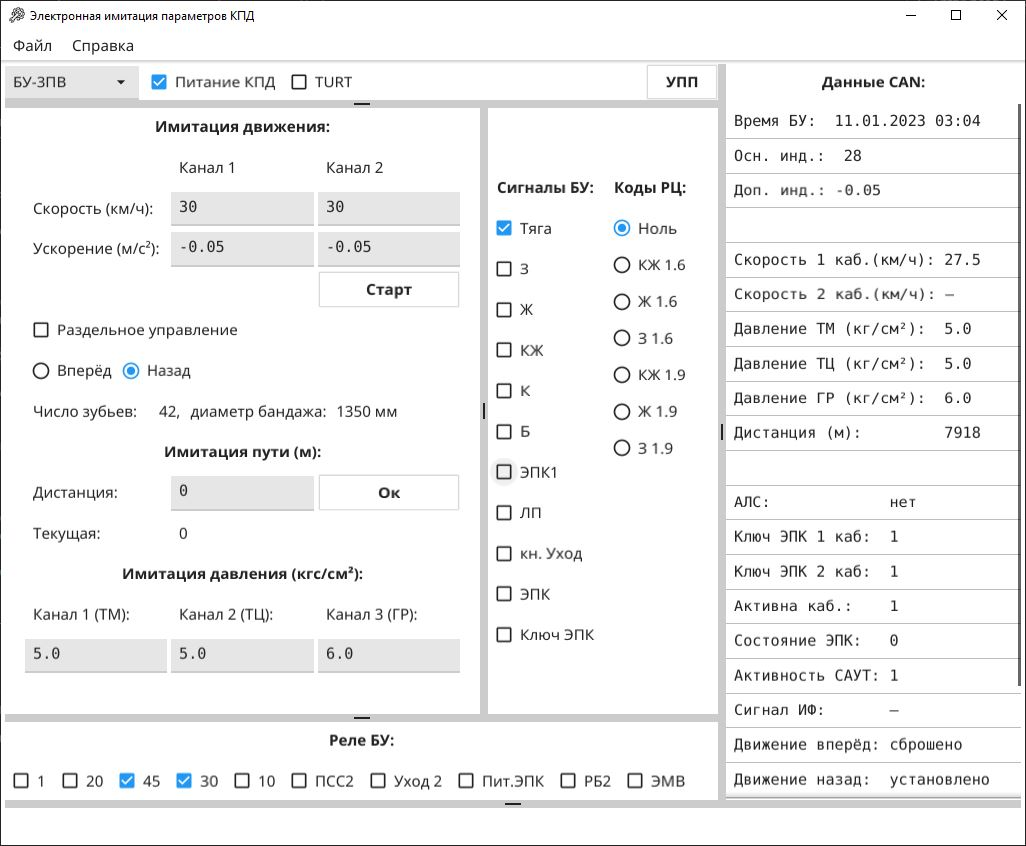
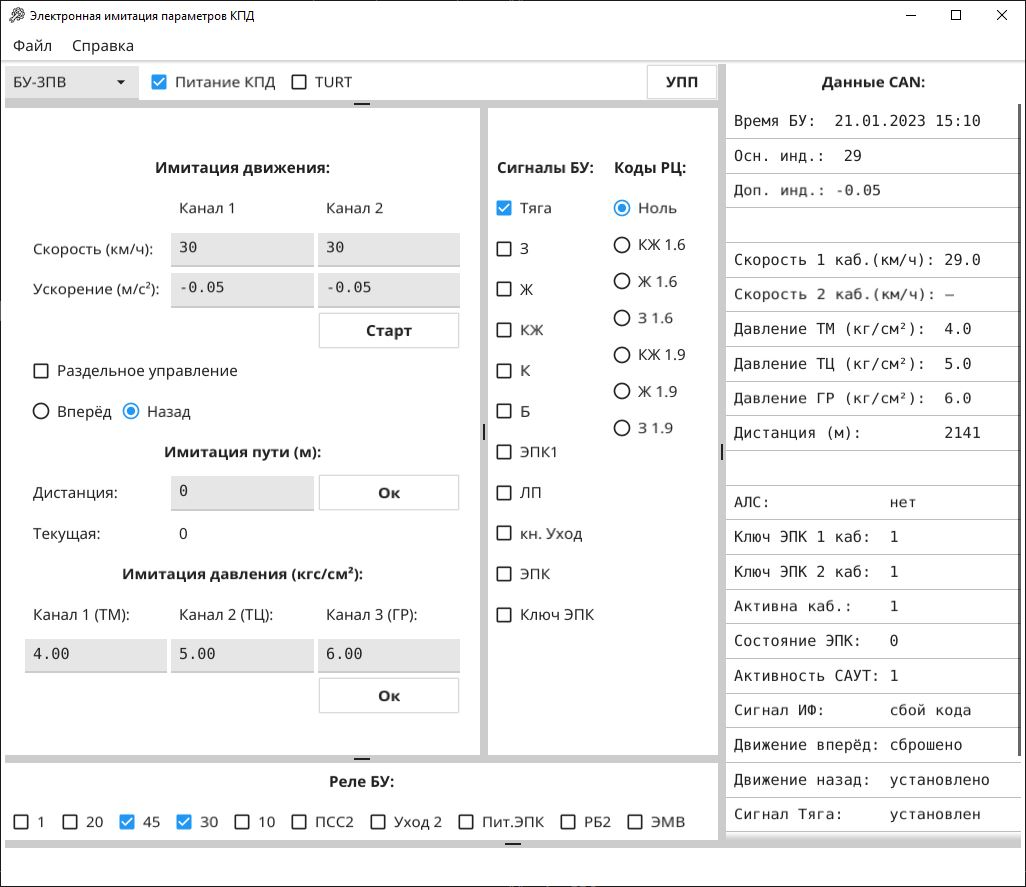
testing

diff --git a/help/index.html b/help/index.html
@@ -64,7 +64,7 @@ thead td
 			Перейдите в режим поездки нажатием кнопки «ДАТА/П» на БУ. <BR>
 			Запустите программу. После загрузки программы выберите нужный БУ из выпадающего списка в верхней части окна. 
 			После запуска программы с БУ считываются условно-постоянные признаки (далее – УПП).<BR>
-			Если программа не смогла их получить (по CAN), будет выведена ошибка, а признаки будут считаны из внутреннего файла конфигурации, 
+			Если программа не смогла их получить по CAN, будет выведена ошибка, а признаки будут считаны из внутреннего файла конфигурации, 
 			где находятся значения, которые были записаны на БУ при последней проверке.  <BR>
 			Для управления питанием КПД и сигналом TURT используйте чекбокс с соответствующим названием. <BR>
 			Для БУ-4 вместо сигнала TURT отображается чекбокс «Режим обслуживания». Он выполняет ввод пин-кода 
@@ -122,7 +122,8 @@ thead td
 
 		<h3>Имитация давления</h3>
 		<p>
-			Введите значение давления в диапазоне, допустимом для выбранного канала, нажмите «Enter» для установки. 
+			Введите значение давления в диапазоне, допустимом для выбранного канала, нажмите «Enter» для установки давления. Для установки всех
+			значений на все доступные каналы давления нажмите кнопку «Ок».
 			Установленное на БУ значение отображается в поле «Данные CAN».
 		</p>
 

diff --git a/testsrs3.go b/testsrs3.go
@@ -37,7 +37,6 @@ var gForm DescriptionForm
 var config configType
 
 func main() {
-	errAnalogIPK, errBinIPK, errFreqIPK, errConfig := true, true, true, true // важные ошибки
 	config = getFyneAPP()
 
 	defer func() {
@@ -57,15 +56,11 @@ func main() {
 	can25.Run()
 	defer can25.Stop()
 
+	errConfig := true
 	err = initDataBU(config.DeviceVariant)
 	if err != nil {
 		fmt.Printf("Данные УПП не получены из конфигурационного файла!")
 		errConfig = false
-	}
-
-	errAnalogIPK, errBinIPK, errFreqIPK, err = initIPK()
-	if err != nil {
-		fmt.Printf("Ошибка инициализации ИПК: %v\n", err)
 	}
 
 	// Форма
@@ -133,52 +128,51 @@ func main() {
 
 	box := container.NewVSplit(box4, gStatusLabel)
 
-	// сообщить о важных ошибках
-	statusIPK := "Ошибка ИПК. Нет связи с модулем:"
-	if !errAnalogIPK {
-		statusIPK += " ФАС,"
+	// вывод ошибок полученных при старте программы
+	if !errConfig {
+		gForm.Status.Set("Не получены данные из файла конфигурации")
 	}
-	if !errBinIPK {
-		statusIPK += " ФДС,"
-	}
-	if !errFreqIPK {
-		statusIPK += " ФЧС,"
-	}
-	statusIPK = strings.TrimSuffix(statusIPK, ",")
 
-	if errAnalogIPK && errBinIPK && errFreqIPK {
-		if !errConfig {
-			statusIPK = "Не получены данные из файла конфигурации"
-		} else {
-			statusIPK = ""
-			err = nil // важных ошибок нет
-		}
-	}
-	gForm.Status.Set(statusIPK)
+	go func() {
+		var ipk, canmsg bool
 
-	if err == nil { // если есть ошибки в иниц ИПК нет смысла смотреть CAN
-		// пробуем получить данные с блока по CAN
-		go func() {
-			sec := time.NewTicker(1 * time.Second)
-			for range sec.C {
+		sec := time.NewTicker(1 * time.Second)
+		for range sec.C {
+			if !ipk {
+				// Инициализация ИПК
+				err = initIPK()
+				if err != nil {
+					gForm.Status.Set(err.Error())
+				} else {
+					gForm.Status.Set("")
+					fmt.Println("IPK init OK")
+					ipk = true
+				}
+			}
+			if !canmsg {
+				// Получение сообщений CAN
 				if err := checkCAN(); err != nil {
-					fmt.Println("ERR CAN")
 					gForm.Status.Set(err.Error())
 				} else {
 					fmt.Println("CAN OK")
+					canmsg = true
+					// CAN работает, пробуем получить признаки
 					if err = readUPPfromBU(); err == nil {
 						gForm.Status.Set("УПП получены с блока")
 					} else {
 						gForm.Status.Set(err.Error())
 					}
 					refreshForm()
-					break
 				}
 			}
-		}()
+			if ipk && canmsg {
+				fmt.Println("Init OK. Let's work!")
+				break
+			}
+		}
+	}()
 
-	}
-
+	// запуск формы
 	w.SetContent(box)
 	w.ShowAndRun()
 }
@@ -256,7 +250,7 @@ type DescriptionForm struct {
 	RelayRY *widget.Check
 	RelayU  *widget.Check
 
-	Parameters binding.String // параметры имитации скорости (число зубьев и бандаж)
+	// Parameters binding.String // параметры имитации скорости (число зубьев и бандаж)
 
 	BoxBUS    *fyne.Container // сигналы БУС (есть только в 3ПВ)
 	BoxOut50V *fyne.Container // некоторые сигналы 3ПВ
@@ -312,7 +306,7 @@ func refreshForm() (err error) {
 
 	refreshDataIPK()
 
-	gForm.Parameters.Set(fmt.Sprintf("Число зубьев:	 	%d, 	диаметр бандажа:	 %d мм", gBU.NumberTeeth, gBU.BandageDiameter))
+	// gForm.Parameters.Set(fmt.Sprintf("Число зубьев:	 	%d, 	диаметр бандажа:	 %d мм", gBU.NumberTeeth, gBU.BandageDiameter))
 	gForm.RelayY.Text = fmt.Sprintf("%d", gBU.RelayY)
 	gForm.RelayRY.Text = fmt.Sprintf("%d", gBU.RelayRY)
 	gForm.RelayU.Text = fmt.Sprintf("%d", gBU.RelayU)
@@ -884,10 +878,10 @@ func speed() fyne.CanvasObject {
 
 	separatlyCheck := widget.NewCheckWithData("Раздельное управление", separately)
 
-	labelParameters := widget.NewLabel("")
-	gForm.Parameters = binding.NewString()
-	labelParameters.Bind(gForm.Parameters)
-	gForm.Parameters.Set(fmt.Sprintf("Число зубьев %d, диаметр бандажа %d мм", gBU.NumberTeeth, gBU.BandageDiameter))
+	// labelParameters := widget.NewLabel("")
+	// gForm.Parameters = binding.NewString()
+	// labelParameters.Bind(gForm.Parameters)
+	// gForm.Parameters.Set(fmt.Sprintf("Число зубьев %d, диаметр бандажа %d мм", gBU.NumberTeeth, gBU.BandageDiameter))
 
 	box1 := container.NewGridWithColumns(
 		3,
@@ -897,7 +891,7 @@ func speed() fyne.CanvasObject {
 		widget.NewLabel(""), widget.NewLabel(""), startButton,
 	)
 
-	boxSpeed := container.NewVBox(getTitle("Имитация движения:"), box1, separatlyCheck, radioDirection, labelParameters)
+	boxSpeed := container.NewVBox(getTitle("Имитация движения:"), box1, separatlyCheck, radioDirection /*, labelParameters*/)
 
 	// ------------------------- box 2 ----------------------------
 
@@ -1127,10 +1121,17 @@ func speed() fyne.CanvasObject {
 		gForm.EntryPress3.Entry.SetText(fmt.Sprintf("%.2f", math.Abs(press3)))
 	}
 
+	startPressButton := widget.NewButton("Ок", func() {
+		entryPress1.Entry.OnSubmitted(entryPress1.Entry.Text)
+		gForm.EntryPress2.Entry.OnSubmitted(gForm.EntryPress2.Entry.Text)
+		gForm.EntryPress3.Entry.OnSubmitted(gForm.EntryPress3.Entry.Text)
+	})
+
 	box3 := container.NewGridWithColumns(
 		3,
 		widget.NewLabel("Канал 1 (ТМ):"), widget.NewLabel("Канал 2 (ТЦ):"), widget.NewLabel("Канал 3 (ГР):"),
 		entryPress1, gForm.EntryPress2, gForm.EntryPress3,
+		dummy, dummy, startPressButton,
 	)
 	boxPress := container.NewVBox(getTitle("Имитация давления (кгс/см²):"), box3)
 
@@ -1603,16 +1604,20 @@ func showFormUPP() {
 			}
 			tempupp[number] = upp
 		}
+		d1, _ := strconv.ParseFloat(tempupp[2].Value, 32)
+		d2, _ := strconv.ParseFloat(tempupp[3].Value, 32)
+		if math.Abs(d1-d2) > 20. {
+			statusLabel.SetText("Ошибка: диаметры бандажа колёсной пары 1 и 2 отличаются")
+		}
 
 		// записать в БУ
+		gUPP = tempupp
 		if gBU.Variant == BU4 {
-			// переход в режим обслуживания для БУ4 = ввести пин
 			if !isServiceModeBU4() {
 				_, msg := setServiceModeBU4()
 				statusLabel.SetText(msg)
 			}
 		} else {
-			gUPP = tempupp
 			if managePower.Checked == true {
 				gBU.SetServiceMode()
 			}

diff --git a/init.go b/init.go
@@ -3,6 +3,7 @@ package main
 import (
 	"errors"
 	"fmt"
+	"strings"
 	"time"
 
 	"github.com/amdf/ipk"
@@ -45,7 +46,7 @@ type DescriptionBU struct {
 	Variant         OptionsBU
 	power           bool
 	turt            bool
-	BandageDiameter uint32
+	BandageDiameter uint32 // бандаж использует ф: sp.Init() но только один бандаж! так что либо 1 либо 2...
 	PressureLimit   float64
 	NumberTeeth     uint32
 	ScaleLimit      uint32
@@ -88,27 +89,36 @@ func refreshDataIPK() (err error) {
 	return
 }
 
-func initIPK() (errA, errB, errF bool, err error) {
-	errF, errB, errA = true, true, true
+func initIPK() (err error) {
 
 	ipkBox.AnalogDev = new(ipk.AnalogDevice)
 	ipkBox.BinDev = new(ipk.BinaryDevice)
 	ipkBox.FreqDev = new(ipk.FreqDevice)
 
-	if !ipkBox.AnalogDev.Open() { //открываем ФАС-3
-		err = errors.New("ошибка инициализации ФАС")
+	errF, errB, errA := true, true, true
+	if !ipkBox.AnalogDev.Open() {
 		errA = false
 	}
-	if !ipkBox.BinDev.Open() { //открываем ФДС-3
-		err = errors.New("ошибка инициализации ФДС")
+	if !ipkBox.BinDev.Open() {
 		errB = false
 	}
-	if !ipkBox.FreqDev.Open() { //открываем ФЧС-3
-		err = errors.New("ошибка инициализации ФЧС")
+	if !ipkBox.FreqDev.Open() {
 		errF = false
 	}
 
 	if !errA || !errB || !errF {
+		str := "Ошибка ИПК. Нет связи с модулем:"
+		if !errA {
+			str += " ФАС,"
+		}
+		if !errB {
+			str += " ФДС,"
+		}
+		if !errF {
+			str += " ФЧС,"
+		}
+		str = strings.TrimSuffix(str, ",")
+		err = errors.New(str)
 		return
 	}
 

diff --git a/upp.go b/upp.go
@@ -250,7 +250,7 @@ func writeUPPtoBU() (err error) {
 // проверить на корректность и обновить данные, для расчета и установки параметров
 func refreshDataBU() (err error) {
 
-	i := 3
+	i := 2
 	ival, err := strconv.Atoi(gUPP[i].Value)
 	if err != nil {
 		err = fmt.Errorf("ОШИБКА. Значение УПП: \"%s\" не верно: %v", gUPP[i].Name, ival)
